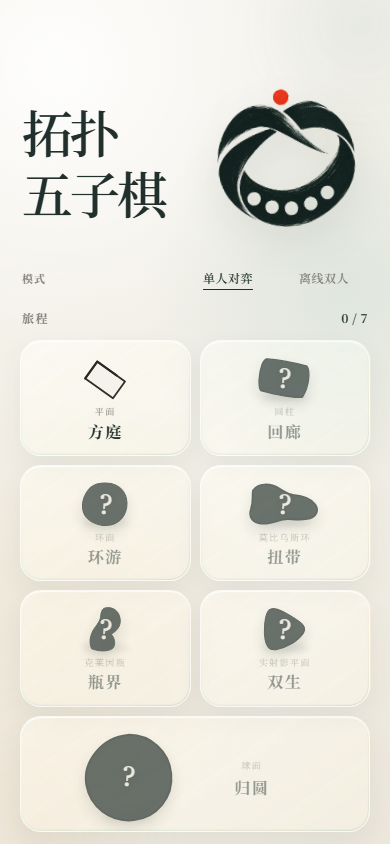
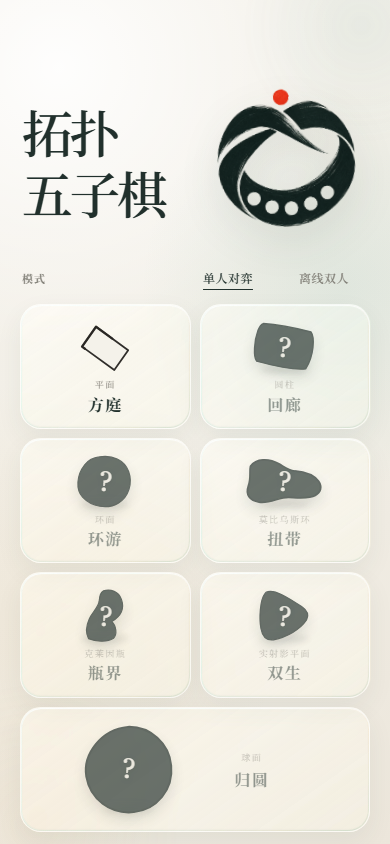
fix: simplify home navigation to a single mode row

diff --git a/app/assets/game.js b/app/assets/game.js
@@ -27,7 +27,6 @@
     levelCards: Array.prototype.slice.call(document.querySelectorAll(".level-card")),
     modeSelection: document.getElementById("modeSelection"),
     modeButtons: Array.prototype.slice.call(document.querySelectorAll("[data-mode]")),
-    progressCount: document.getElementById("progressCount"),
     gameSettingsButton: document.getElementById("gameSettingsButton"),
     backButton: document.getElementById("backButton"),
     gameLevelName: document.getElementById("gameLevelName"),
@@ -298,7 +297,6 @@
   }
 
   function updateHome() {
-    var completeCount = 0;
     dom.levelCards.forEach(function updateCard(card, index) {
       var locked = index > prefs.unlocked;
       var complete = Boolean(prefs.completed[index]);
@@ -311,11 +309,7 @@
         "aria-label",
         LEVELS[index].name + (revealed ? "" : " · 图鉴未揭示")
       );
-      if (complete) {
-        completeCount += 1;
-      }
     });
-    dom.progressCount.textContent = completeCount + " / " + LEVELS.length;
     dom.modeButtons.forEach(function updateModeButton(button) {
       var active = button.dataset.mode === selectedMode;
       button.classList.toggle("is-active", active);

diff --git a/app/assets/style.css b/app/assets/style.css
@@ -308,7 +308,7 @@ button,
   width: 100%;
   height: 100%;
   min-height: 0;
-  grid-template-rows: auto auto auto minmax(0, 1fr);
+  grid-template-rows: auto auto minmax(0, 1fr);
   overflow: hidden;
   gap: 0;
   padding: calc(7px + var(--host-top-inset)) 20px calc(12px + var(--safe-bottom));
@@ -357,18 +357,6 @@ button,
   50% { transform: rotate(-3.5deg) translateY(-3px) scale(1.125); }
 }
 
-.journey-head {
-  display: flex;
-  align-items: center;
-  justify-content: space-between;
-  min-height: 28px;
-  margin: 0 2px 8px;
-  color: var(--muted);
-  font-size: 12px;
-  font-weight: 650;
-  letter-spacing: 0.12em;
-}
-
 .mode-selection {
   display: flex;
   align-items: center;
@@ -404,12 +392,6 @@ button,
 }
 
 .setting-row[hidden] { display: none; }
-
-.progress-count {
-  color: var(--ink);
-  font-variant-numeric: tabular-nums;
-  letter-spacing: 0.03em;
-}
 
 .level-grid {
   position: relative;
@@ -2112,7 +2094,6 @@ button,
   }
 
   .hero h1 { font-size: clamp(40px, 11.4vw, 52px); }
-  .journey-head { min-height: 23px; margin-bottom: 5px; }
   .level-grid { gap: 6px; }
   .level-card { padding: 8px 10px; }
   .level-glyph,

diff --git a/app/index.html b/app/index.html
@@ -33,11 +33,6 @@
             </div>
           </div>
 
-          <div class="journey-head">
-            <span>旅程</span>
-            <span class="progress-count" id="progressCount">0 / 7</span>
-          </div>
-
           <div class="level-grid" id="levelGrid">
             <button class="level-card" type="button" data-level="0" aria-label="方庭">
               <img class="level-glyph" src="./assets/topologies/plane.svg" alt="" aria-hidden="true" />

diff --git a/docs/design/qa.md b/docs/design/qa.md
@@ -143,6 +143,10 @@
 
 双人任务分支合入 `dev` 的 `38ae19a`，接收首页标题简化及统一版本 `1.40.0`，保留双人入口与交互。两侧 QA 记录均保留。上方 Issue #2 的候选截图已按合并结果重新生成，首页基线仍为 `45900d9`；此前候选图可从 `6f09eba` 回溯。390 × 844 和 360 × 770 的断网对局回归通过，首页图文间距检查通过，141 项测试、包校验与 24 份 Markdown 校验通过。此次仅把 `dev` 同步到任务分支，双人功能仍待用户预览确认后合回 `dev`。
 
+### 2026-10-20：首页仅保留模式行
+
+按用户反馈删除首页“旅程 / 进度计数”一行，标题与关卡列表之间只保留模式选择，首页网格恢复三行结构；解锁与完成状态继续由关卡卡片表示。模式按钮保留 44 px 触摸高度。相同初始进度、静止状态的对比：[390 × 844 两行](../../artifacts/issue-2/home-two-rows-390x844.png) → [单行](../../artifacts/issue-2/home-after-390x844.png)，[360 × 770 两行](../../artifacts/issue-2/home-two-rows-360x770.png) → [单行](../../artifacts/issue-2/home-after-360x770.png)。141 项测试及包、文档校验通过；两种视口重新执行离线双人浏览器回归。最新首页候选以本节单行截图为准，仍待用户预览确认。
+
 ## 新证据记录模板
 
 ```text
